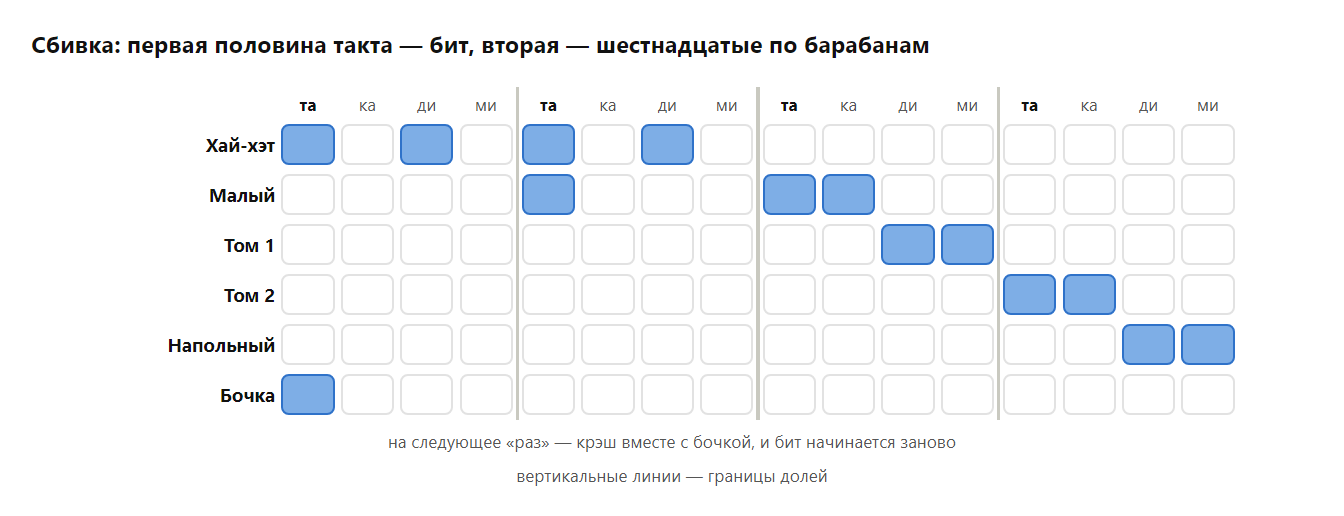
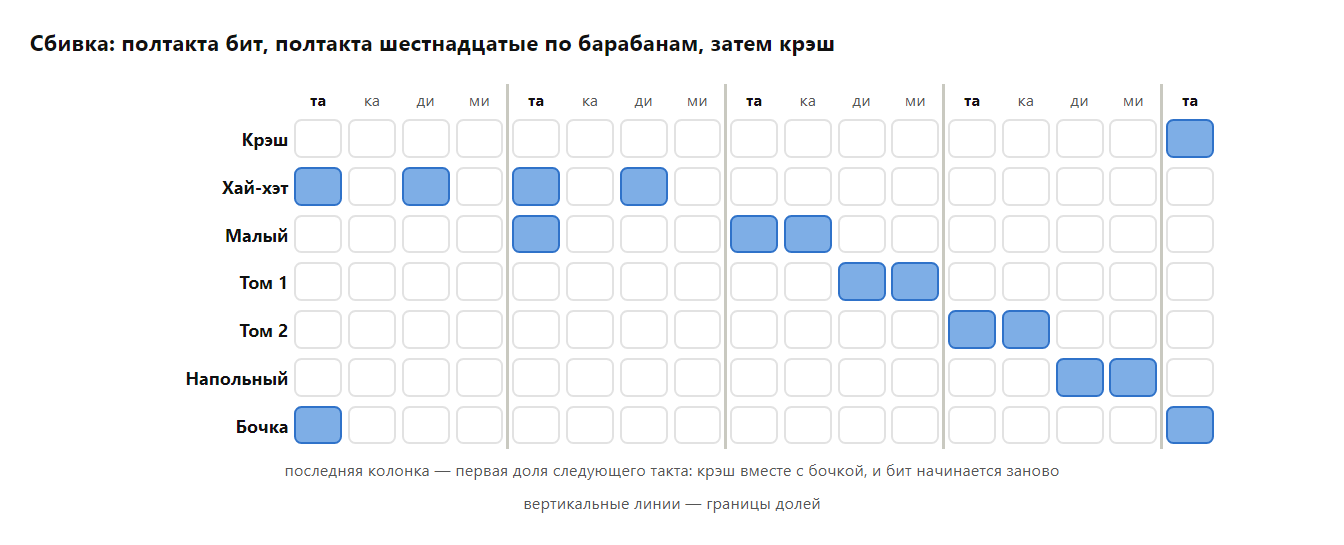
Глава 3: на схеме сбивки показан крэш на первой доле следующего такта

Changed region(s): [[0.125, 0.155, 0.9375, 0.9612], [0.0, 0.062, 0.6875, 0.124]]

diff --git a/03-ritm-i-metronom.md b/03-ritm-i-metronom.md
@@ -161,7 +161,7 @@
 
 ![Сбивка: половина такта бита, затем шестнадцатые по барабанам](images/03-sbivka.png)
 
-*Сбивка: первая половина такта — бит, вторая — шестнадцатые по барабанам сверху вниз, затем крэш на «раз»*
+*Сбивка: полтакта бит, полтакта шестнадцатые по барабанам сверху вниз; в последней колонке — первая доля следующего такта, крэш вместе с бочкой*
 
 - [ ] 🎯 Сбивка не ускоряется, крэш попадает точно на «раз»
 
